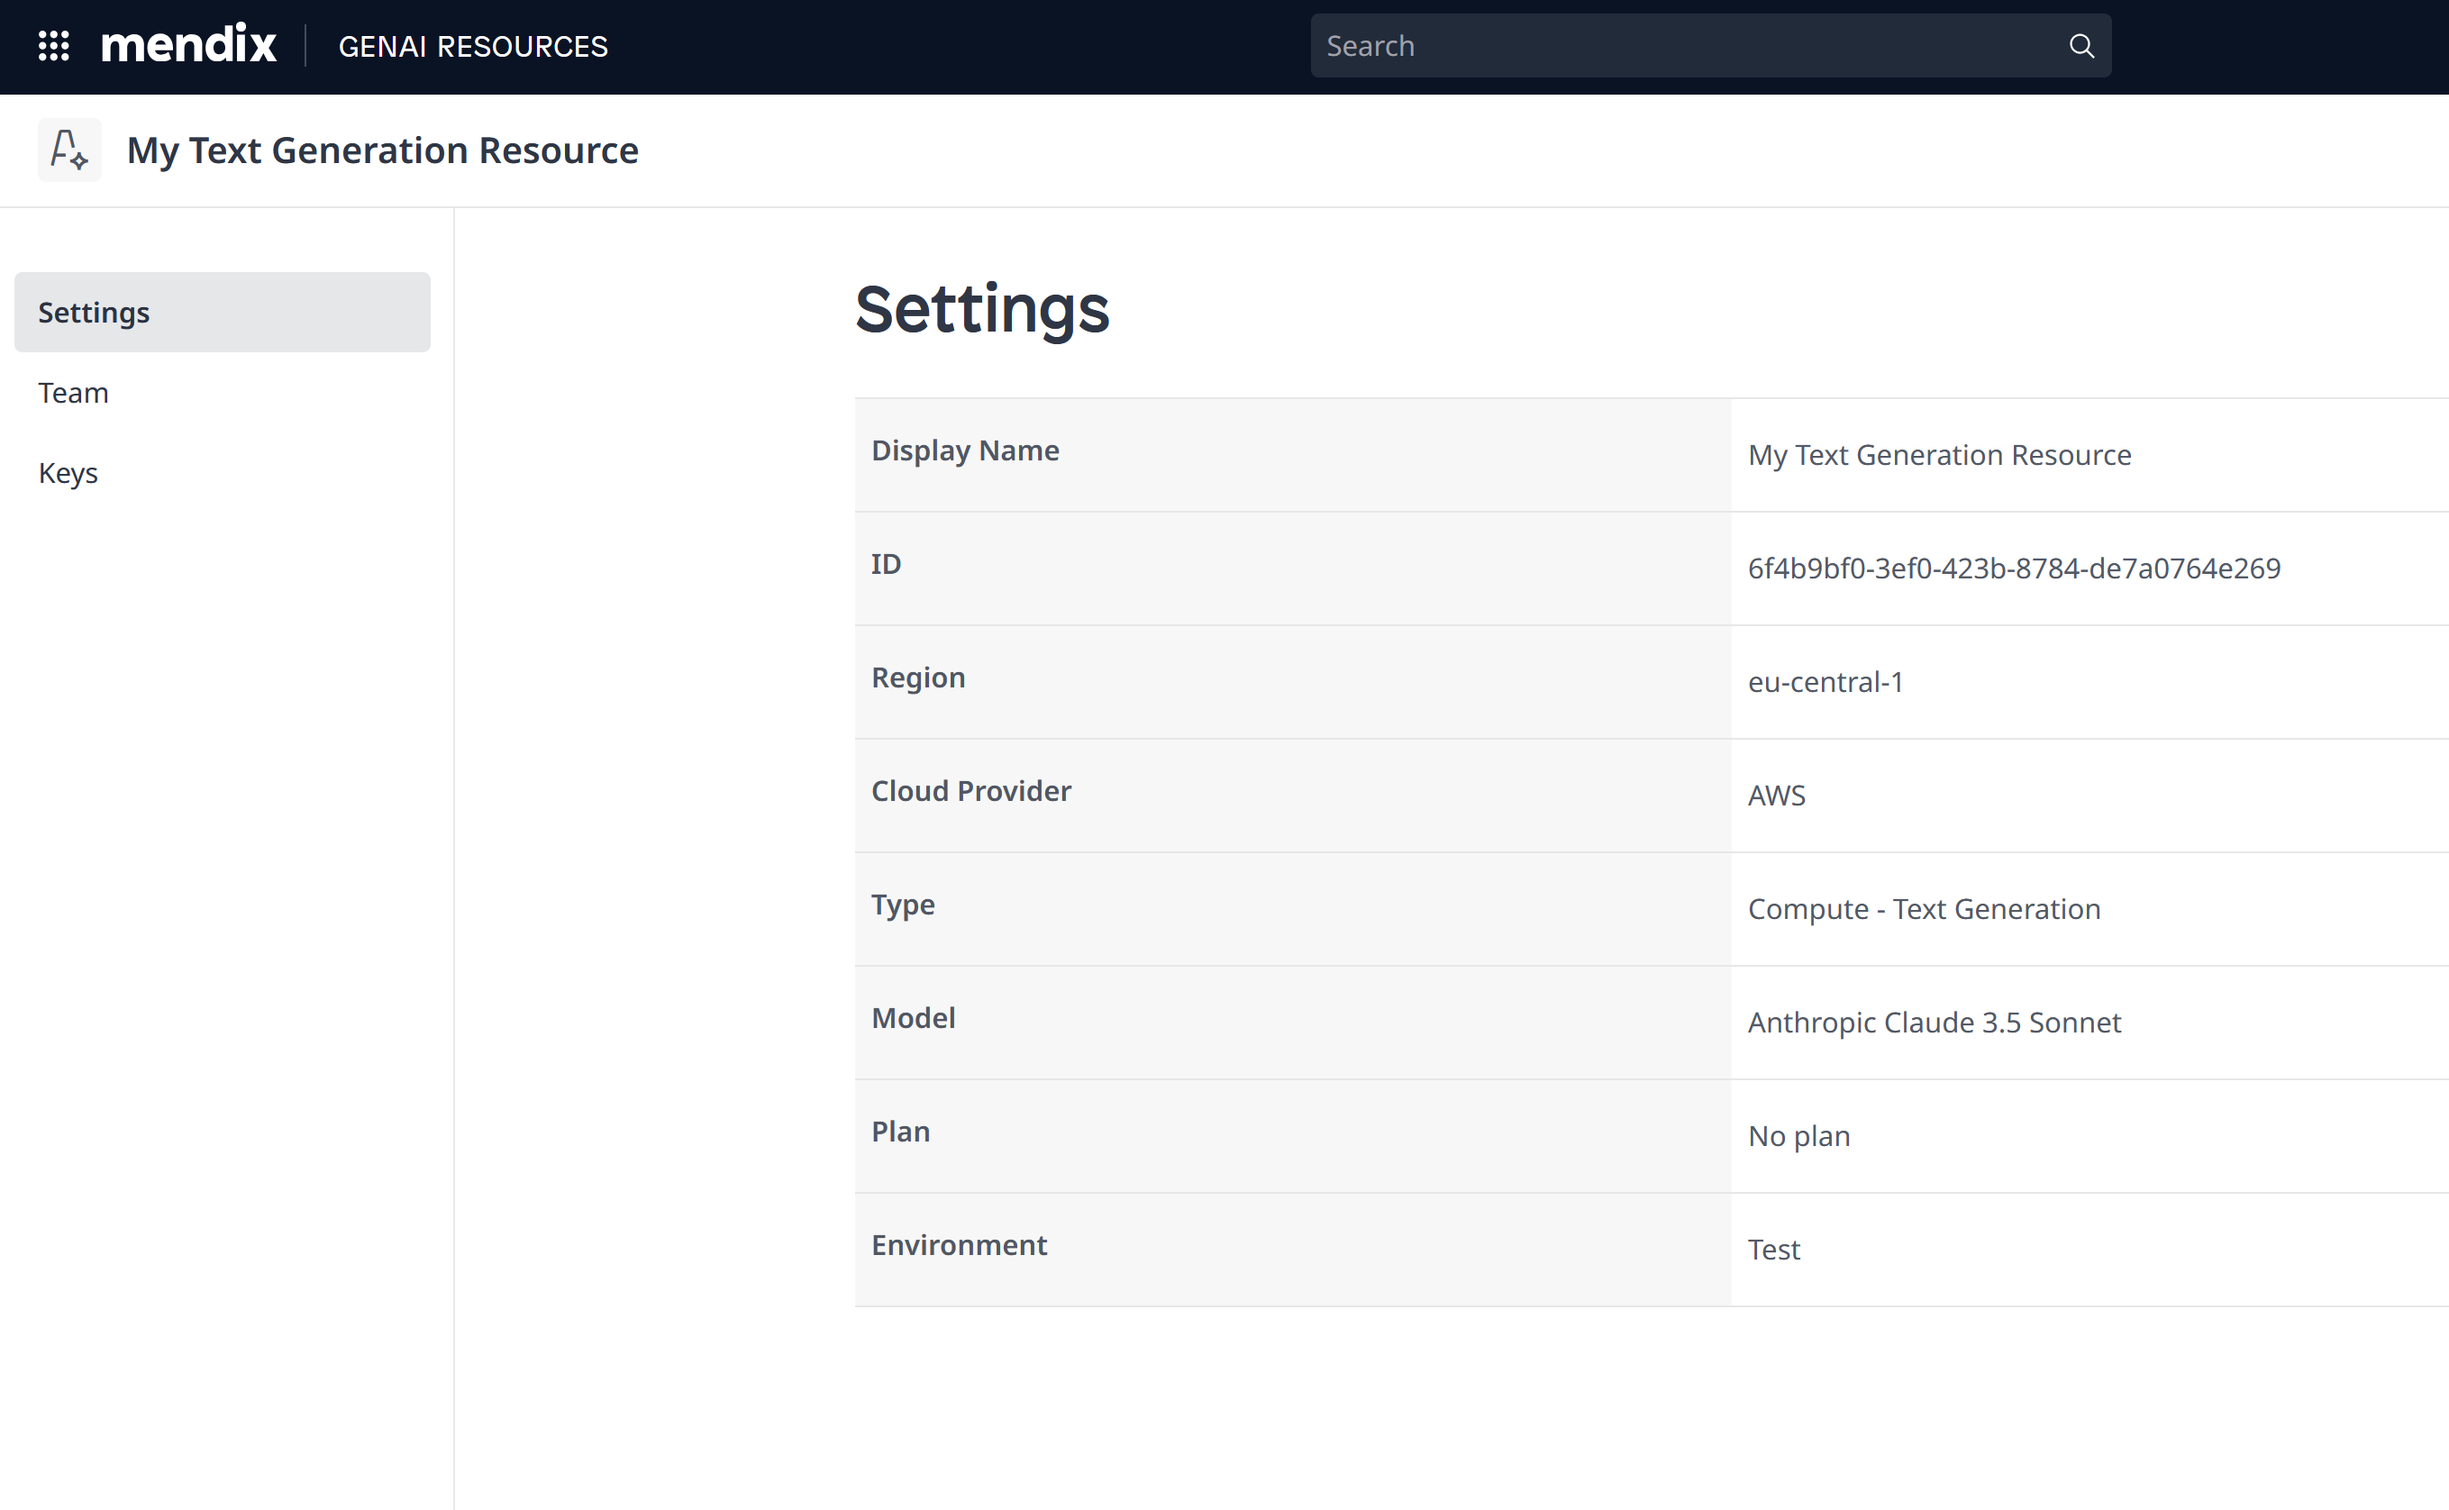
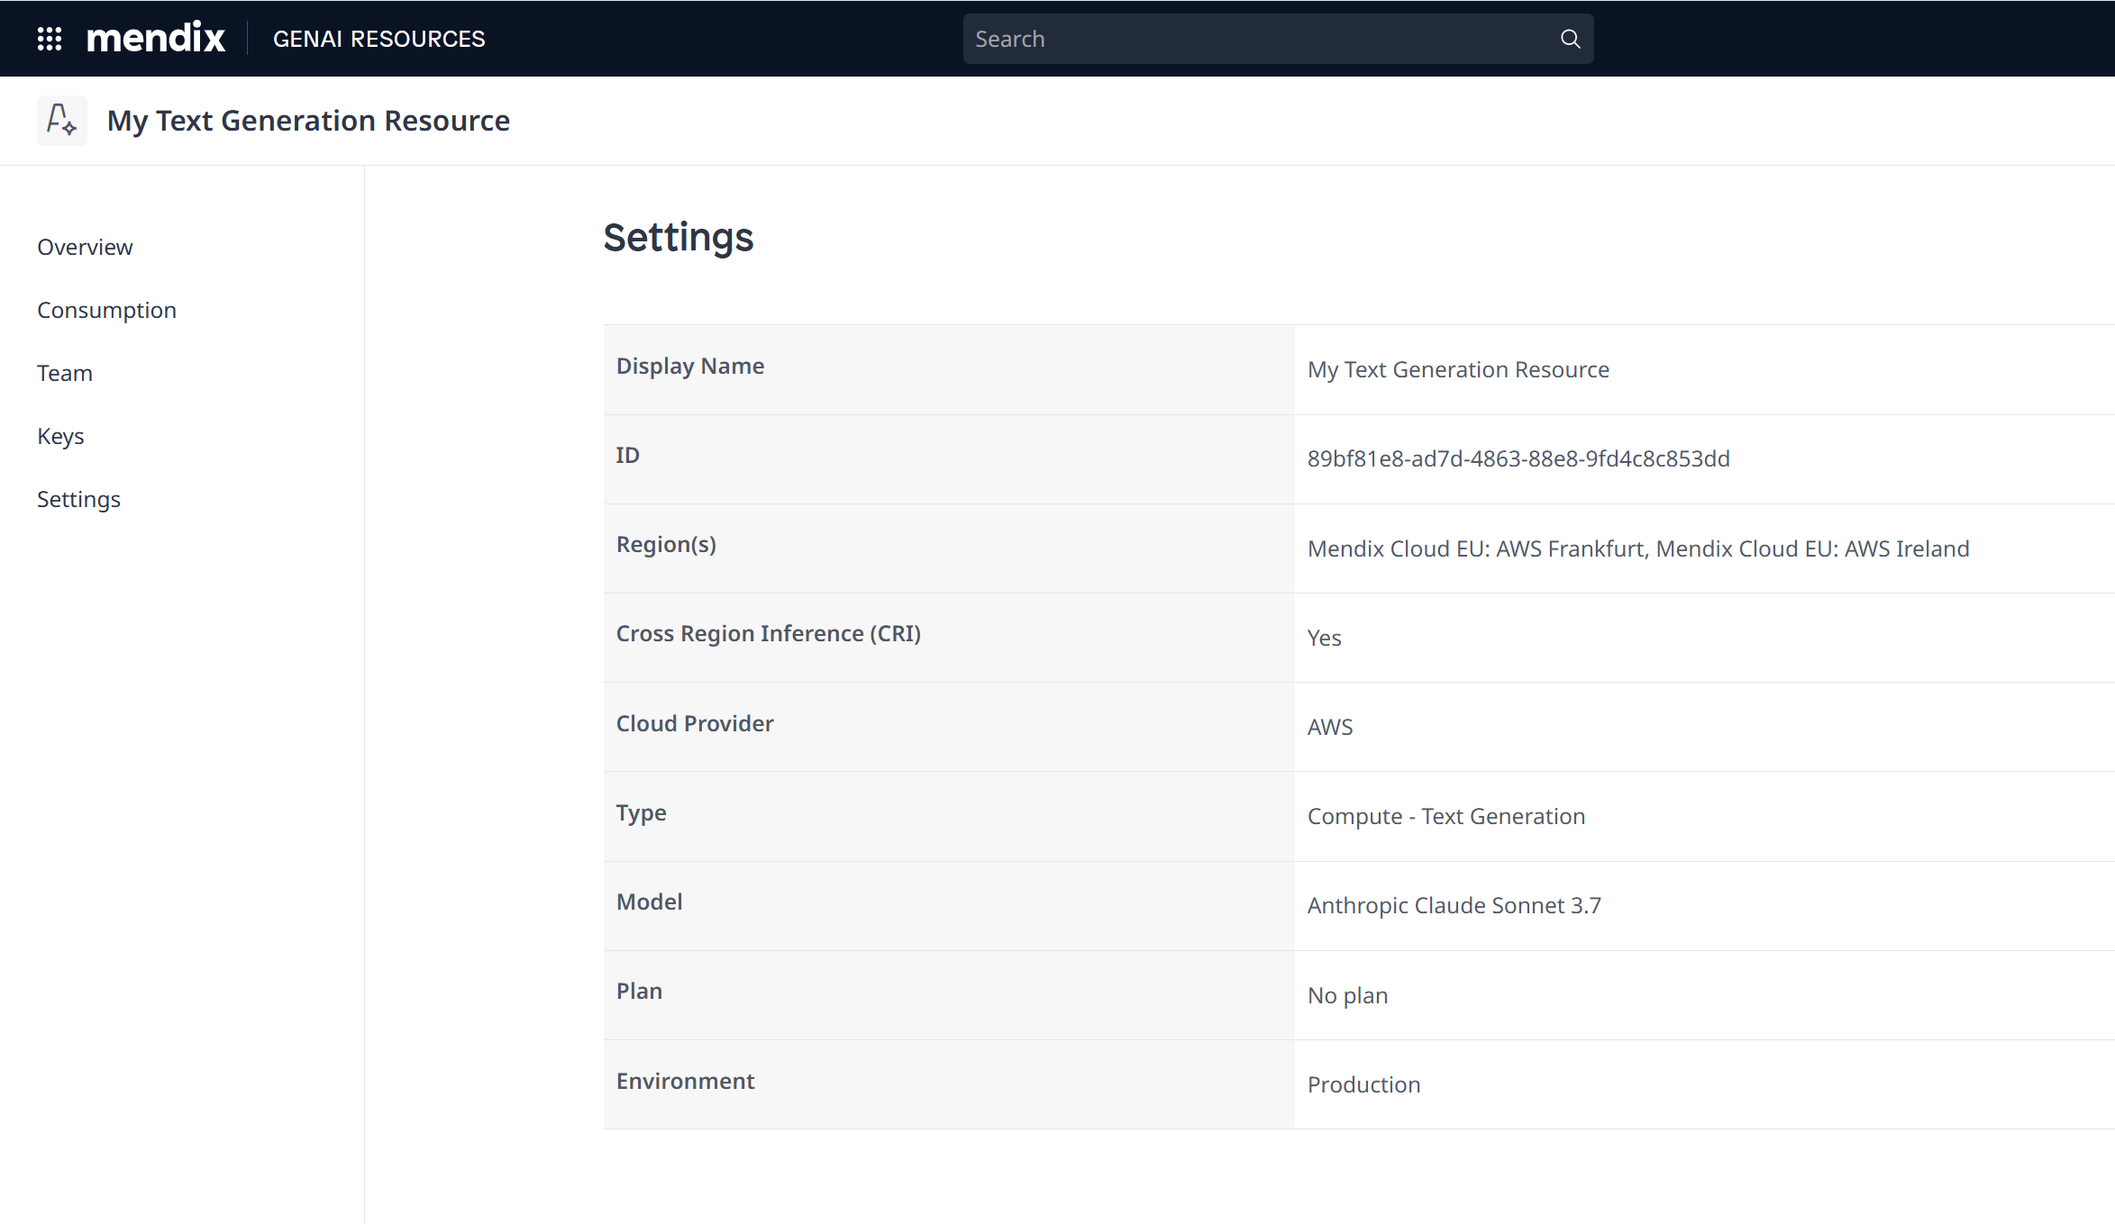
Updated the GenAI portal documentation with Cross Region Inference information.

diff --git a/content/en/docs/appstore/use-content/platform-supported-content/modules/genai/mendix-cloud-genai/navigate_mxgenai.md b/content/en/docs/appstore/use-content/platform-supported-content/modules/genai/mendix-cloud-genai/navigate_mxgenai.md
@@ -20,12 +20,12 @@ GenAI resource packs accelerate the delivery of complete generative AI solutions
 ### Settings
 
 {{< figure src="/attachments/appstore/platform-supported-content/modules/genai/navigate_mxgenai/GenAIResource_Settings.png" >}}
-
 The **Settings** tab contains the details of a GenAI resource. It shows the following:
 
 * **Display Name**: indicates the name of the resource.
 * **ID**: indicates the resource ID.
-* **Region**: the region where the resource is hosted.
+* **Region(s)**: the region where the resource is hosted.
+* **Cross Region Inference (CRI)**: shows if the model support Cross Region inference
 * **Cloud Provider**: indicates the cloud provider, for example, AWS.
 * **Type**: this is the type of resource, for example, Text Generation, Embedding, Knowledge Base, etc.
 * **Model**: indicates which model is used, for example, Anthropic Claude Sonnet 3.5.
@@ -33,6 +33,9 @@ The **Settings** tab contains the details of a GenAI resource. It shows the foll
 * **Environment**: shows which environment is used, for example, test, acceptance, or production.
 
 When you are looking at the knowledge base resource settings, you will also see details of the associated embeddings resource and vice versa. To learn more about embeddings,  see the [Embedding vector](/appstore/modules/genai/rag/#embedding-vector) section of *RAG in a Mendix App*.
+
+#### Cross Region Inference (CRI)
+Cross Region Inference is the ability of the model to re-direct the request to another region to spread out the load per region. Enableing CRI doesn't change how the request is send, redirecting a request is done at the server itself where it can decide where to progress the request to get the fastest response. CRI is only available on a limited amount of models and only able to enable for new resources.
 
 ### Team
 
